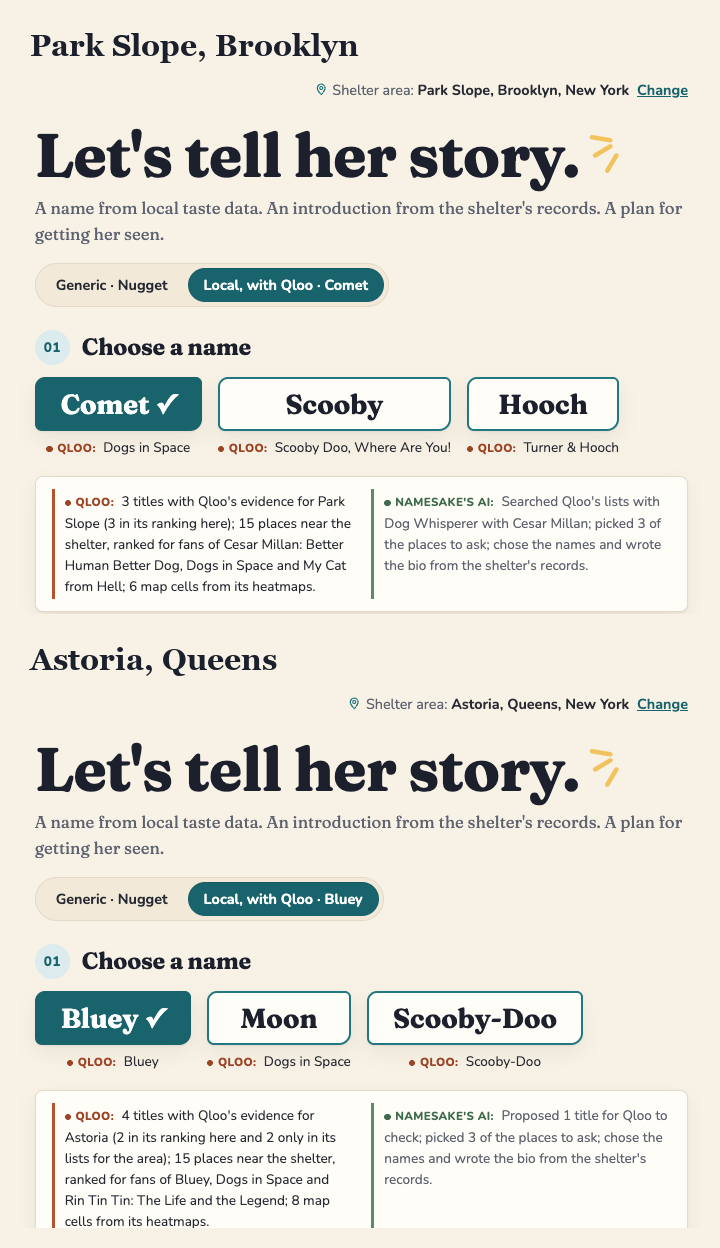
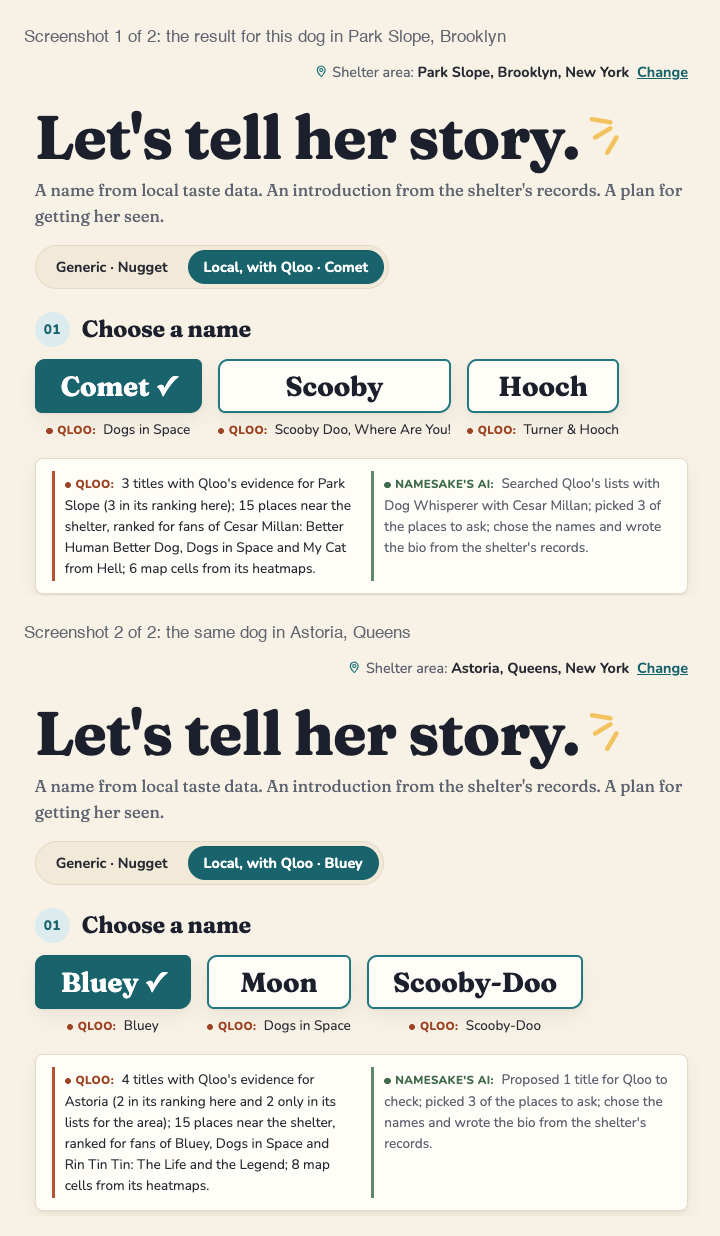
Review nits: captions that read as captions, the Astoria pane whole, four images, compare in the walkthrough, found in Qloo

Changed region(s): [[0.0306, 0.0, 0.9472, 0.9838], [0.4889, 0.8608, 0.5194, 0.8916]]

diff --git a/README.md b/README.md
@@ -35,7 +35,7 @@ Namesake does **not** claim to get animals adopted faster, save lives or money, 
 
 ## How it uses Qloo
 
-The same dog, the same record, two neighbourhoods of one city. Park Slope offers Comet, Scooby and Hooch; Astoria offers Bluey, Moon and Scooby-Doo. The local name comes from a pet-themed title Qloo ranks in each area (Comet from *Dogs in Space*, Bluey from *Bluey*); the other options come from the area's titles (Moon) or from lookalike titles Namesake's AI proposed and Qloo confirmed (Scooby, Hooch, Scooby-Doo).
+The same dog, the same record, two neighbourhoods of one city. Park Slope offers Comet, Scooby and Hooch; Astoria offers Bluey, Moon and Scooby-Doo. The local name comes from a pet-themed title Qloo ranks in each area (Comet from *Dogs in Space*, Bluey from *Bluey*); the other options come from the area's titles (Moon) or from lookalike titles Namesake's AI proposed and found in Qloo (Scooby, Hooch, Scooby-Doo).
 
 ![The lead dog's result in Park Slope, Brooklyn (top: Comet, Scooby and Hooch) and in Astoria, Queens (bottom: Bluey, Moon and Scooby-Doo): each with its version toggle, its name options with their Qloo titles, and its own strip of what Qloo returned and what Namesake's AI did](docs/img/two-neighbourhoods.png)
 
@@ -109,7 +109,7 @@ The decisions behind each row, with their evidence, are in [`docs/decisions.md`]
    - **Qloo's part and the AI's**, apart: what Qloo returned for this result (titles with Qloo's evidence for the area, the places near the shelter, the heatmaps' map cells) and what Namesake's AI did with it (the titles it searched Qloo's lists with, titles it proposed or judged, places it picked, the names and bio)
    - the **introduction**, the listing written from the shelter's records
    - **Behind this story**: the facts, Qloo's local context, and the interpretation and checks; the saved run's own step log, folded, each step marked Qloo, Namesake's AI, Classifier or Code; then for each name what Qloo returned beside what Namesake selected, and a **Why** drawer with two columns, "Qloo returned" (the Qloo calls behind the result: Qloo's pet-tag lists and the AI's own lookups, searches and ranking, then the assembly's) and "How Namesake read it" (Namesake's AI and its code)
-   - a **map** of where fans of pet-themed titles stand out within the area, and the **places to ask**, under a note on which kinds of place were asked for and why, each with Qloo's description, its rank ("2nd of 15 · near the top of Qloo's list") and its comparison with the baseline on one Qloo line, numbered on the map, with the cell it sits in and its distance from the shelter (points from OpenStreetMap)
+   - a **map** of how fans of pet-themed titles compare within the area, and the **places to ask**, under a note on which kinds of place were asked for and why, each with Qloo's description, its rank ("2nd of 15 · near the top of Qloo's list") and its comparison with the baseline on one Qloo line, numbered on the map, with the cell it sits in and its distance from the shelter (points from OpenStreetMap)
    - the **other ways to help**, each labelled Research, Qloo or Our suggestion; for an animal recorded as not good with children, places whose name or Qloo description mentions children are skipped, and the list says so
 
    ![The Park Slope result's "Help her story travel" band: the map of how fans of pet-themed titles compare with fans of the area's top shows, with its key, the dashed circle around the fictional shelter and the places numbered; and the three places to ask, each with Qloo's description and rank, Namesake's reading and the reason Namesake's AI gives](docs/img/result-map.png)

diff --git a/docs/decisions.md b/docs/decisions.md
@@ -378,7 +378,7 @@ The refusal keeps the edit and names the missing words.
 
 **Revised 19 October, story is the default** (the author: "have story as default skin"): the `UI` setting's default is now `story`. `warm` is kept for `?ui=warm` and comparison, as `classic` is, and the contract test runs against all three. The README screenshot (`docs/img/result.png`) was retaken from the live story page at 1024 px wide (at 1440 since, below), and the README's walkthrough follows story's order.
 
-**Revised 19 October, the screenshots, after the audits:** the README leads with the result's first screen at 1440 × 900 (`docs/img/result-first-screen.png`), legible as one image, and links the whole page (`docs/img/result.png`, 1440 wide); `docs/img/two-neighbourhoods.png` stacks the lead dog's Park Slope and Astoria results, each pane cropped to the names and the strip so it reads at README width, and `docs/img/result-map.png` shows the map and the places to ask inline: the same record, a local name from a pet-themed title Qloo ranks in each area, and the other options from the area's titles or lookalike titles. All three were taken from the live site after the examples were rebuilt under decision 26. The map's caption now reads its colours as a key ("Colours: warm where …") and the map's own key explains the dashed circle on every map with cells, the travel band's lead asks how fans compare rather than claiming they stand out, the strip counts titles "in its ranking here" (the badge's "2nd of 3" counts the whole ranking), and a place's map line says the map compares areas, not places: the screenshots showed each of these reading as a contradiction, most where the data was thin (Park Slope's dog map has no warm cell).
+**Revised 19 October, the screenshots, after the audits:** the README leads with the result's first screen at 1440 × 900 (`docs/img/result-first-screen.png`), whose headline and names read at README width, and links the whole page (`docs/img/result.png`, 1440 wide); `docs/img/two-neighbourhoods.png` stacks the lead dog's Park Slope and Astoria results, each pane cropped to the names and the strip so it reads at README width, and `docs/img/result-map.png` shows the map and the places to ask inline: the same record, a local name from a pet-themed title Qloo ranks in each area, and the other options from the area's titles or lookalike titles. All four were taken from the live site after the examples were rebuilt under decision 26. The map's caption now reads its colours as a key ("Colours: warm where …") and the map's own key explains the dashed circle on every map with cells, the travel band's lead asks how fans compare rather than claiming they stand out, the strip counts titles "in its ranking here" (the badge's "2nd of 3" counts the whole ranking), and a place's map line says the map compares areas, not places: the screenshots showed each of these reading as a contradiction, most where the data was thin (Park Slope's dog map has no warm cell).
 
 ## 25. The demo's model: Muse Spark first, then Claude Opus 5.5, then DeepSeek Flash
 
